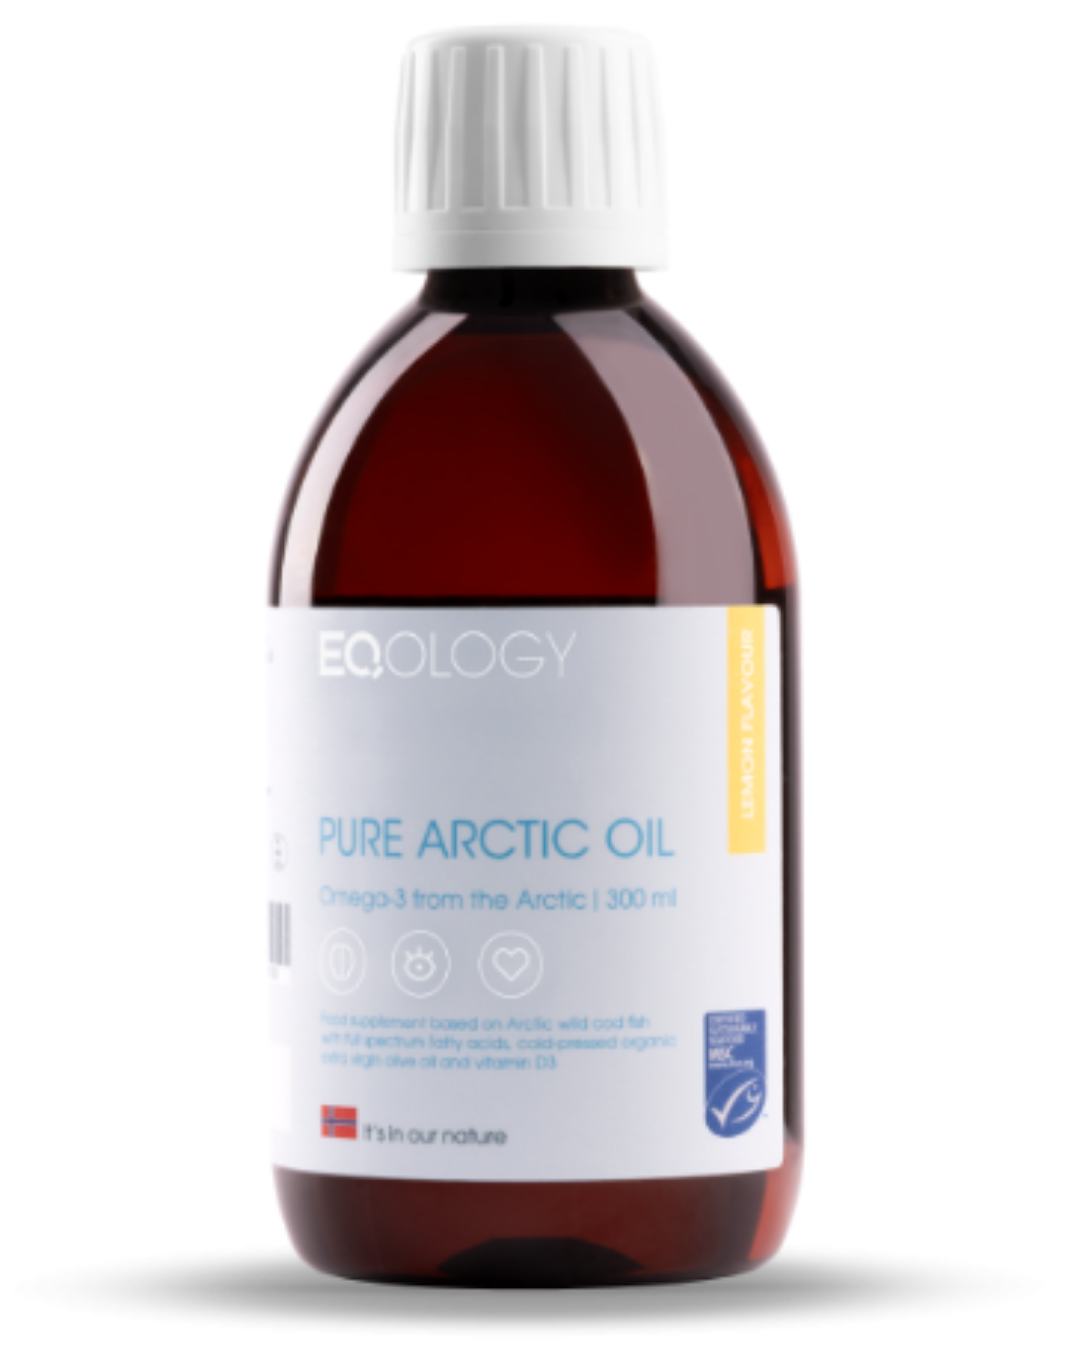
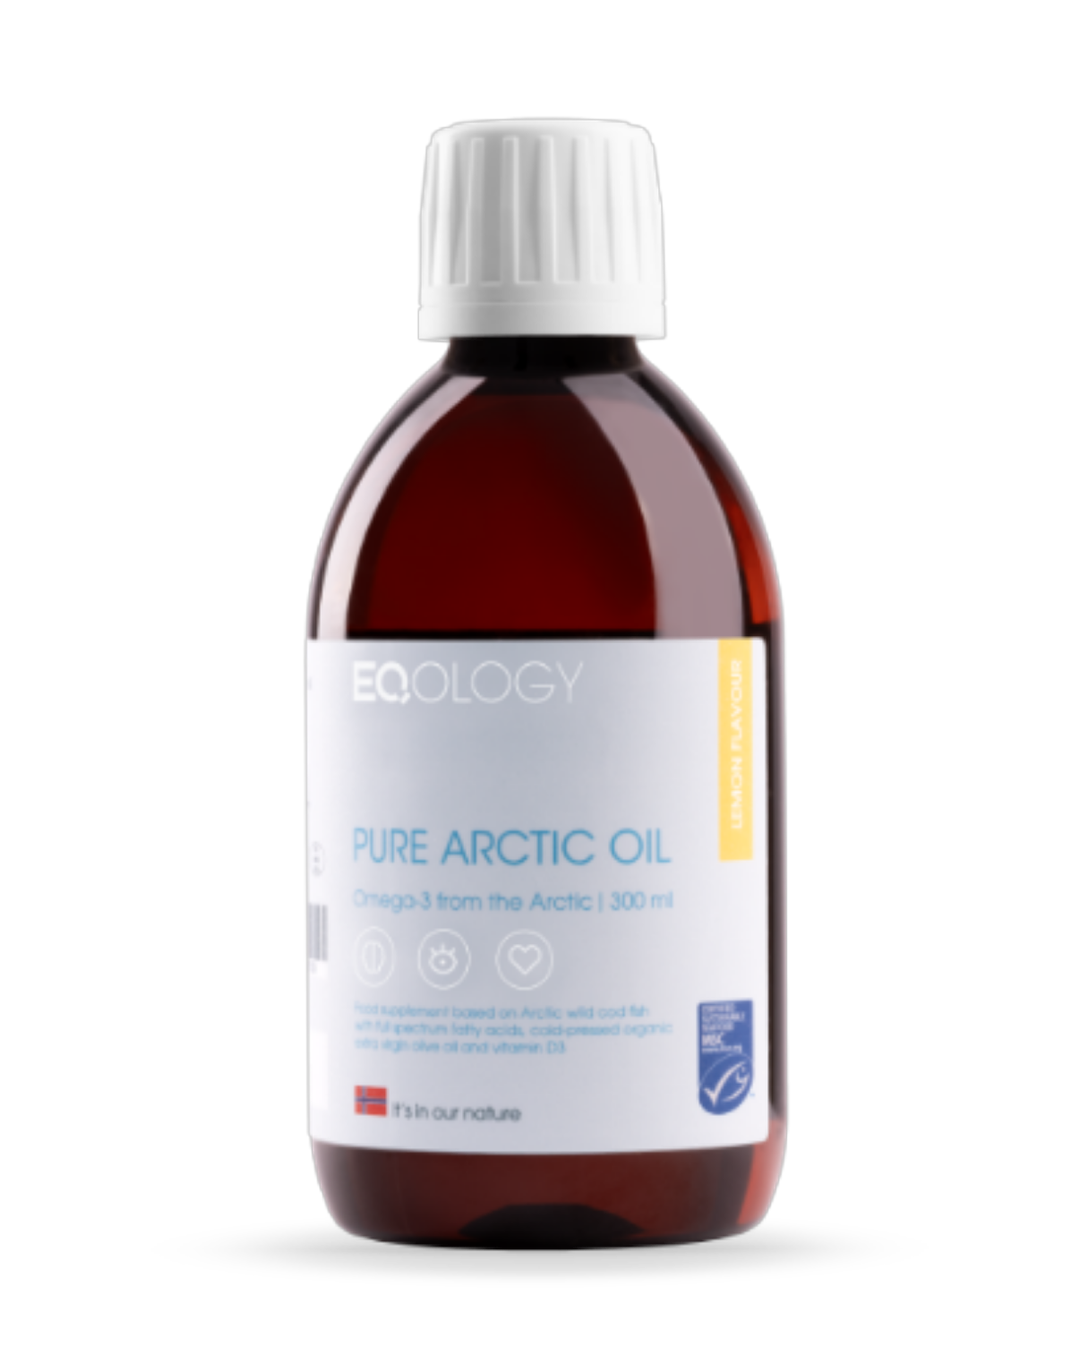
Tableau gamme : bocals normalisés (meme taille) + colonnes egales + cache v10

Changed region(s): [[0.1222, 0.0, 0.8556, 0.9956]]

diff --git a/index.html b/index.html
@@ -441,9 +441,12 @@
       </div>
       <div class="reveal rounded-3xl border border-glacier-100 overflow-hidden shadow-sm bg-white">
         <div class="overflow-x-auto">
-          <table class="min-w-[920px] w-full border-collapse text-sm">
+          <table class="min-w-[920px] w-full border-collapse text-sm table-fixed">
+            <colgroup>
+              <col style="width:16%"><col style="width:14%"><col style="width:14%"><col style="width:14%"><col style="width:14%"><col style="width:14%"><col style="width:14%">
+            </colgroup>
             <thead>
-              <tr class="bg-white"><th class="px-5 pt-6"></th><th class="px-3 pt-8 pb-4 text-center"><img src="assets/images/pao-kids.png?v=9" alt="Pure Arctic Oil For Kids" class="h-36 w-auto mx-auto object-contain" loading="lazy"></th><th class="px-3 pt-8 pb-4 text-center"><img src="assets/images/pao-lemon.png?v=9" alt="Pure Arctic Oil Lemon / Orange" class="h-36 w-auto mx-auto object-contain" loading="lazy"></th><th class="px-3 pt-8 pb-4 text-center"><img src="assets/images/pao-natural.png?v=9" alt="Pure Arctic Oil Natural" class="h-36 w-auto mx-auto object-contain" loading="lazy"></th><th class="px-3 pt-8 pb-4 text-center"><img src="assets/images/pao-heart.png?v=9" alt="Pure Arctic Oil Heart & Energy" class="h-36 w-auto mx-auto object-contain" loading="lazy"></th><th class="px-3 pt-8 pb-4 text-center"><img src="assets/images/pao-gold.png?v=9" alt="Pure Arctic Oil Gold" class="h-36 w-auto mx-auto object-contain" loading="lazy"></th><th class="px-3 pt-8 pb-4 text-center"><img src="assets/images/pao-vegan.png?v=9" alt="Pure Vegan Oil" class="h-36 w-auto mx-auto object-contain" loading="lazy"></th></tr>
+              <tr class="bg-white"><th class="px-5 pt-6"></th><th class="px-3 pt-8 pb-4 text-center"><img src="assets/images/pao-kids.png?v=10" alt="Pure Arctic Oil For Kids" class="h-36 w-auto mx-auto object-contain" loading="lazy"></th><th class="px-3 pt-8 pb-4 text-center"><img src="assets/images/pao-lemon.png?v=10" alt="Pure Arctic Oil Lemon / Orange" class="h-36 w-auto mx-auto object-contain" loading="lazy"></th><th class="px-3 pt-8 pb-4 text-center"><img src="assets/images/pao-natural.png?v=10" alt="Pure Arctic Oil Natural" class="h-36 w-auto mx-auto object-contain" loading="lazy"></th><th class="px-3 pt-8 pb-4 text-center"><img src="assets/images/pao-heart.png?v=10" alt="Pure Arctic Oil Heart & Energy" class="h-36 w-auto mx-auto object-contain" loading="lazy"></th><th class="px-3 pt-8 pb-4 text-center"><img src="assets/images/pao-gold.png?v=10" alt="Pure Arctic Oil Gold" class="h-36 w-auto mx-auto object-contain" loading="lazy"></th><th class="px-3 pt-8 pb-4 text-center"><img src="assets/images/pao-vegan.png?v=10" alt="Pure Vegan Oil" class="h-36 w-auto mx-auto object-contain" loading="lazy"></th></tr>
               <tr class="bg-navy-900 text-white"><th class="px-5 py-4 text-left text-xs font-semibold uppercase tracking-wider text-glacier-300">Gamme</th><th class="px-4 py-4 text-center align-middle"><span class="block font-serif text-sm font-bold leading-tight">Pure Arctic Oil For Kids</span></th><th class="px-4 py-4 text-center align-middle"><span class="block font-serif text-sm font-bold leading-tight">Pure Arctic Oil Lemon / Orange</span></th><th class="px-4 py-4 text-center align-middle"><span class="block font-serif text-sm font-bold leading-tight">Pure Arctic Oil Natural</span></th><th class="px-4 py-4 text-center align-middle"><span class="block font-serif text-sm font-bold leading-tight">Pure Arctic Oil Heart & Energy</span></th><th class="px-4 py-4 text-center align-middle"><span class="block font-serif text-sm font-bold leading-tight">Pure Arctic Oil Gold</span></th><th class="px-4 py-4 text-center align-middle"><span class="block font-serif text-sm font-bold leading-tight">Pure Vegan Oil</span></th></tr>
             </thead>
             <tbody>
